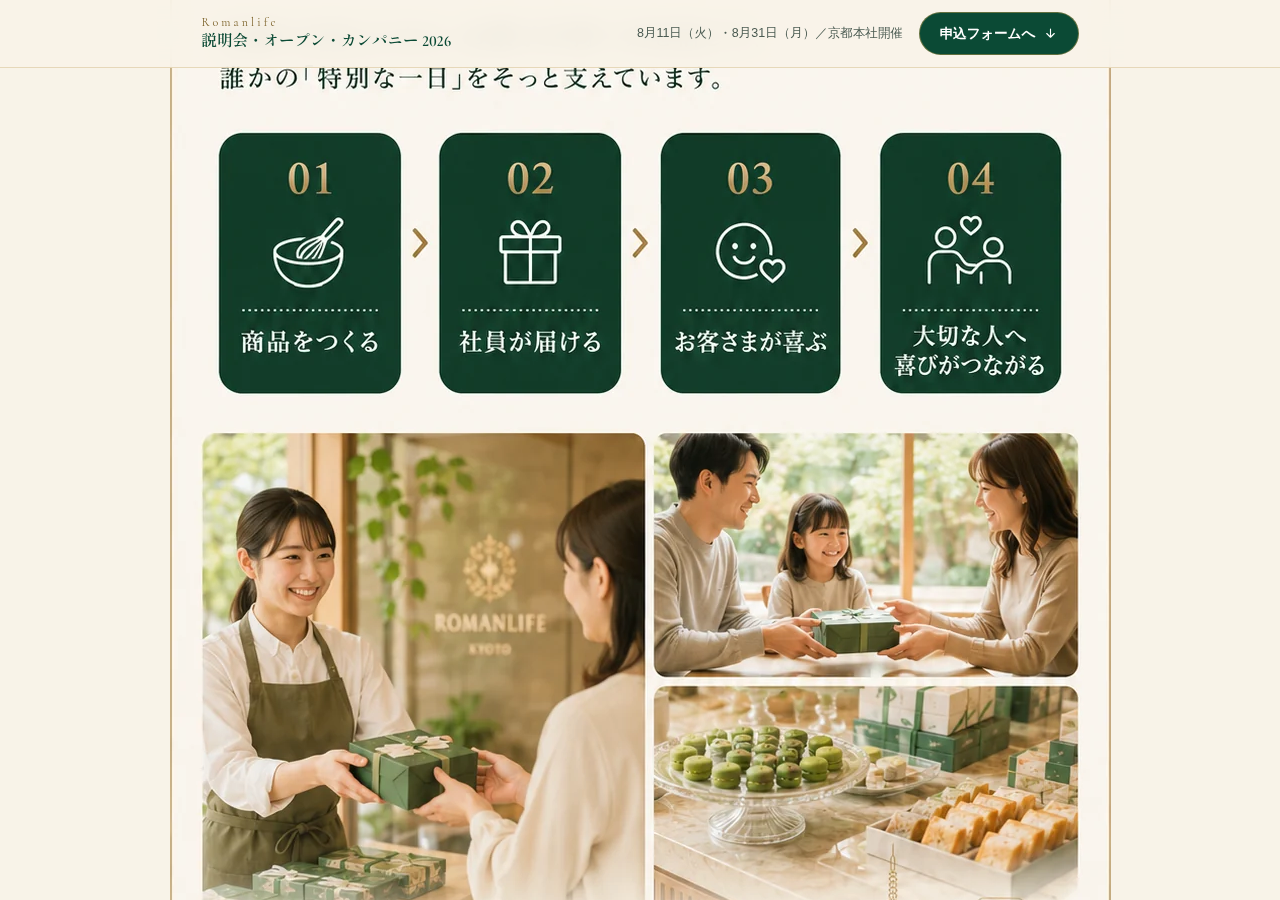
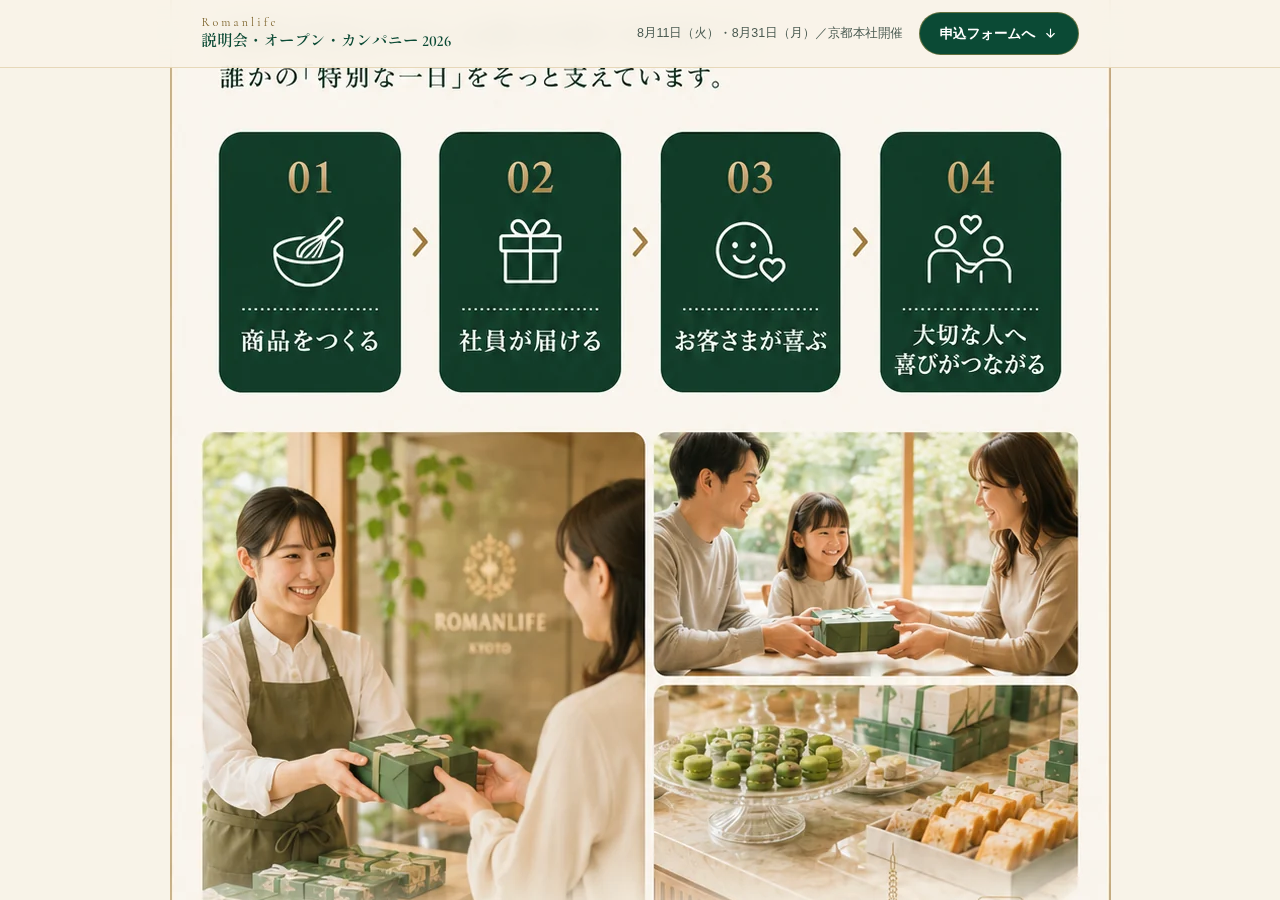
feat(image-lp): ファーストビューをご支給画像へ差し替え
- assets/panels/p01.webp をご支給のFV画像（941×1672）へ置き換え
- CTA透明リンクの位置を新しいボタンに合わせて再計測
  （top 91.87% / height 4.43% / left 14.88% / width 70.78%）
- alt と読み上げ用テキストを新FVの記載内容に更新
- 新FVの記載に合わせてFAQを更新
  ・選考に関する回答を「参加者限定の特別選考ルートをご案内」に変更
  ・「定員になり次第、締切前でも受付終了する場合がある」を追加

確認: 375〜1920pxで横スクロールなし／コンソールエラーなし／外部通信なし、
axe-core（WCAG 2.0/2.1 A・AA）違反0件、CTA位置とフォーム動作を再確認

Claude-Session: https://claude.ai/code/session_015d8YPaoft4QzEwSfga62S2

diff --git a/image-lp/index.html b/image-lp/index.html
@@ -64,10 +64,10 @@
 
     <!-- SECTION 01 ／ ファーストビュー -->
     <figure class="panel">
-      <img src="assets/panels/p01.webp" width="941" height="1673" fetchpriority="high" decoding="async"
-           alt="2028 GRADUATES OPEN COMPANY／ROMANLIFE オープン・カンパニー 2026。2028年卒向け 採用イベント、説明会／オープン・カンパニー。お菓子の先にある、しあわせを届ける仕事。京都から、心を動かす仕事を知る3時間。8月11日（火）・8月31日（月）京都本社開催。">
+      <img src="assets/panels/p01.webp" width="941" height="1672" fetchpriority="high" decoding="async"
+           alt="2028年卒対象 採用説明会・オープン・カンパニー。2028 GRADUATES。京都洋菓子ブランド MALEBRANCHE マールブランシュを展開する、喜びをリレーする 株式会社ロマンライフ。お菓子の先にある、しあわせを届ける仕事。マールブランシュの仕事・人・ものづくりを、実際に見て、聞いて、体験できる採用説明会です。参加者限定で、通常とは異なる特別選考ルートへご案内します。開催日程① 8月11日（火）京都本社開催、開催日程② 8月31日（月）京都本社開催。3時間、わたしたちの仕事を体験してみませんか？ 定員になり次第、受付を終了する場合がございます。">
       <a class="hot" href="#entry-form" data-cta="hero"
-         style="top:87.5%;height:7.2%;left:5.9%;width:88.1%"
+         style="top:91.87%;height:4.43%;left:14.88%;width:70.78%"
          aria-label="説明会に申し込む（ページ下部の申込フォームへ移動します）"></a>
     </figure>
 
@@ -80,6 +80,8 @@
       対象は2028年卒業予定の大学生・大学院生。
       申込締切は、8月11日開催分が2026年8月11日（火）0:00、8月31日開催分が2026年8月31日（月）0:00。
       開催日になった時点で受付終了となります。
+      また、定員になり次第、受付を終了する場合があります。
+      参加者限定で、通常とは異なる特別選考ルートへご案内します。
     </p>
 
     <!-- SECTION 02 ／ はじめに・イベントの価値 -->
@@ -217,7 +219,14 @@
         </details>
         <details class="faq-item" name="faq">
           <summary class="faq-q"><span class="qm" aria-hidden="true">Q</span><span class="txt">イベントに参加すると選考で有利になりますか？</span><span class="faq-toggle" aria-hidden="true"><svg width="15" height="15" viewBox="0 0 24 24"><use href="#i-plus"/></svg></span></summary>
-          <div class="faq-a"><span class="am" aria-hidden="true">A</span><div class="body"><p>本イベントは、お菓子・食品業界とロマンライフの仕事について知っていただくための機会です。選考上の取り扱いについては、当日ご案内する今後の採用ステップをご確認ください。</p></div></div>
+          <div class="faq-a"><span class="am" aria-hidden="true">A</span><div class="body">
+            <p>ご参加いただいた方には、<b>参加者限定の特別選考ルート</b>をご案内します。通常とは異なるルートでの選考となります。</p>
+            <p>詳しい内容は当日ご案内します。</p>
+          </div></div>
+        </details>
+        <details class="faq-item" name="faq">
+          <summary class="faq-q"><span class="qm" aria-hidden="true">Q</span><span class="txt">申込みが締切前でも受付が終了することはありますか？</span><span class="faq-toggle" aria-hidden="true"><svg width="15" height="15" viewBox="0 0 24 24"><use href="#i-plus"/></svg></span></summary>
+          <div class="faq-a"><span class="am" aria-hidden="true">A</span><div class="body"><p>定員になり次第、締切前でも受付を終了する場合があります。ご希望の日程がお決まりでしたら、お早めにお申し込みください。</p></div></div>
         </details>
       </div>
     </div>

diff --git a/image-lp/README.md b/image-lp/README.md
@@ -40,7 +40,7 @@ image-lp/
 
 | # | 内容 | 実装 |
 | --- | --- | --- |
-| 1 | ファーストビュー | 画像 `p01.webp` ＋ CTA透明リンク |
+| 1 | ファーストビュー（ご支給画像） | 画像 `p01.webp` ＋ CTA透明リンク |
 | 2 | はじめに・イベントの価値 | 画像 `p02.webp` |
 | 3 | 3時間で分かること | 画像 `p03.webp` |
 | 4 | 当日のプログラム | 画像 `p04.webp` |
@@ -216,7 +216,7 @@ source{ utm_source, utm_medium, utm_campaign, utm_content, utm_term, referrer, p
 
 | 項目 | 現状 | 対応 |
 | --- | --- | --- |
-| **パネル画像の人物写真** | カンプのAI生成画像 | 実際の社員・店舗写真で作り直してください |
+| **パネル画像の人物写真** | ファーストビュー（`p01.webp`）はご支給画像。`p02`〜`p09` はカンプのAI生成画像 | `p02`〜`p09` を実際の社員・店舗写真で作り直してください |
 | **送信先API** | 未設定（`ENTRY_API = null`） | 6章のとおり設定 |
 | **プライバシーポリシーURL** | 未設定（画面に注意書きが出ます） | `PRIVACY_POLICY_URL` を設定 |
 | **ファビコン** | 暫定の抽象マーク（企業ロゴ不使用） | `assets/favicon.svg` を差し替え |
@@ -224,11 +224,21 @@ source{ utm_source, utm_medium, utm_campaign, utm_content, utm_term, referrer, p
 
 ### 公式情報が確認できず、意図的に記載していないもの
 
-- 参加費、定員・座席数
+- 参加費、具体的な定員・座席数
 - 服装・持ち物（「申込み後の参加案内をご確認ください」としています）
 - 当日の受付場所・入口（同上）
-- 選考優遇（有利とも不利とも読めない表現にしています）
 - 従業員数・店舗数（出典により数値が異なるため）
+
+### ご支給いただいたFV画像に合わせて記載した内容
+
+`p01.webp`（差し替え後のファーストビュー）に含まれる次の2点は、画像内の記載に合わせて
+HTML側（FAQ・読み上げ用テキスト）にも反映しています。**内容が事実と合っているか、
+公開前に採用ご担当者さまへご確認ください。**
+
+- **参加者限定の特別選考ルート** … FAQ「イベントに参加すると選考で有利になりますか？」の回答を、
+  「参加者限定の特別選考ルートをご案内します」に変更しました。
+- **定員になり次第、受付を終了する場合がある** … FAQ に
+  「申込みが締切前でも受付が終了することはありますか？」を追加しました。
 
 掲載している数字は、公開情報で確認できた
 **1951年（創業）／70年以上／1982年（マールブランシュ誕生）／3ブランド** のみです。
